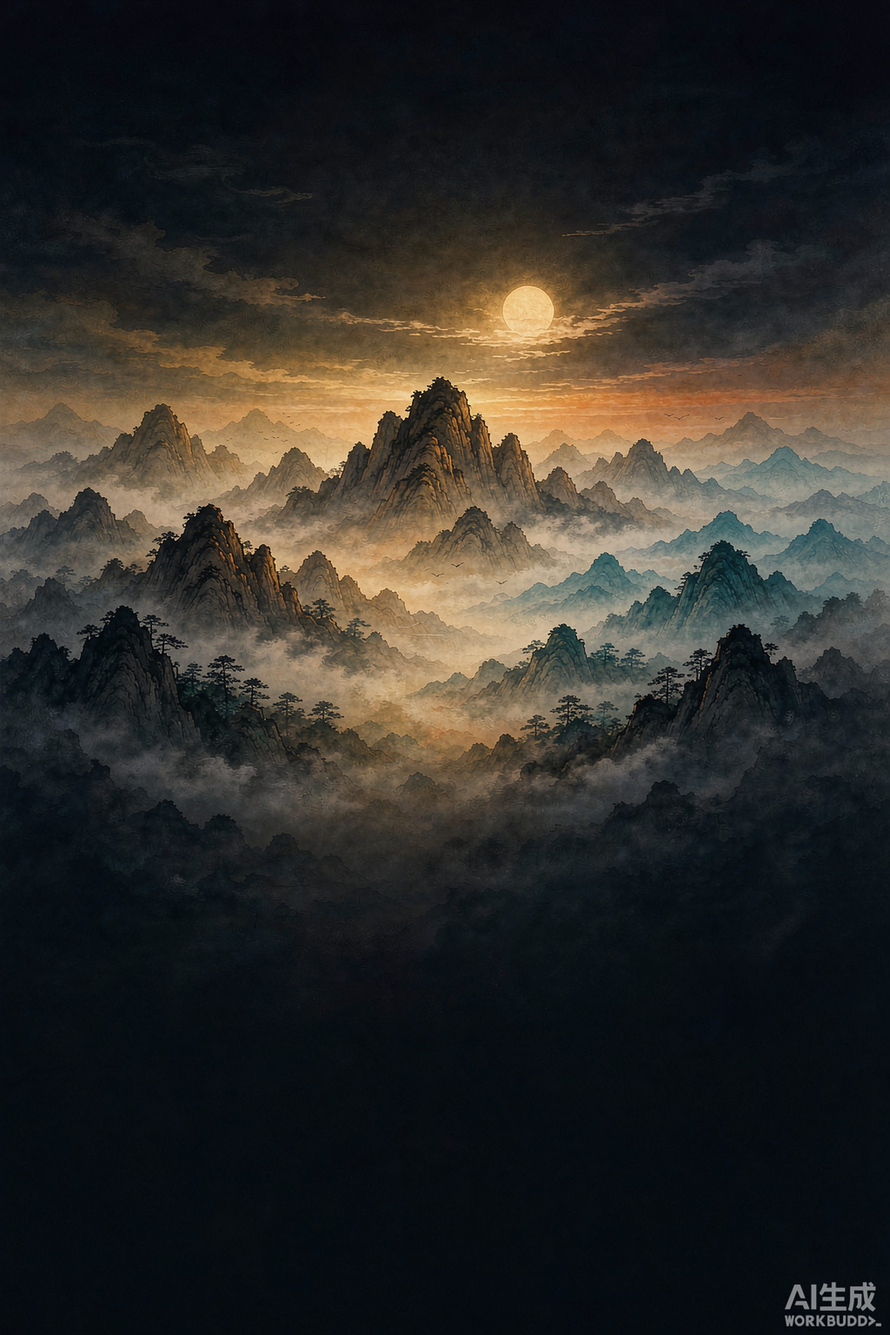
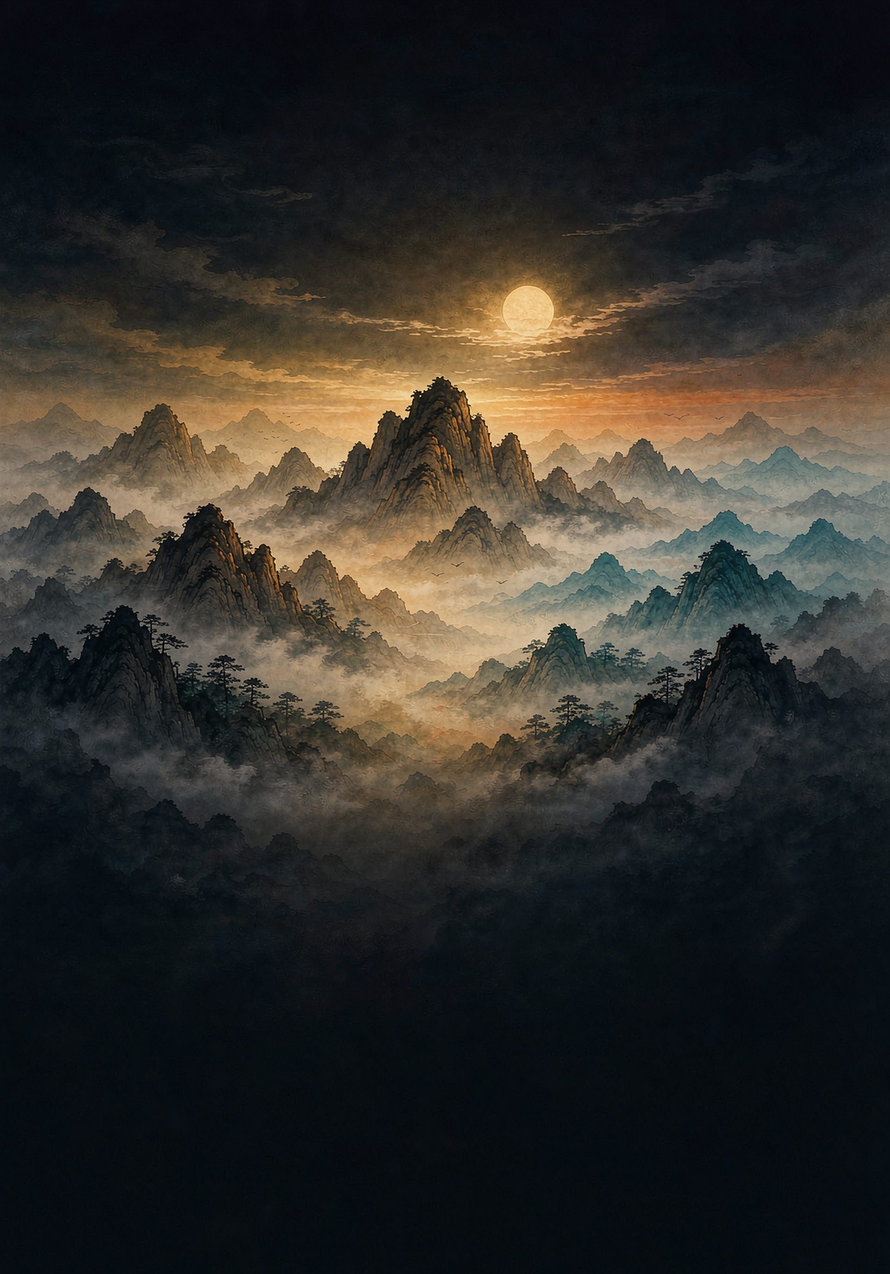
style: 网站背景换回金月水墨山水图（mountain-bg-tall.jpg），同时裁除其右下角AI水印（2880→2750高）；替换浮空悬崖图

Changed region(s): [[0.0, 0.1855, 1.0, 0.68], [0.875, 0.9582, 1.0, 1.0], [0.6875, 0.1545, 0.7188, 0.1855]]

diff --git a/index.html b/index.html
@@ -41,12 +41,12 @@
     min-height: 100vh;
     position: relative;
   }
-  /* 背景图层：浮空悬崖仙境整卷——锚定文档本体（absolute 高度=全页），一张图铺满、随滚动条1:1零延时移动 */
+  /* 背景图层：金月水墨山水整卷——锚定文档本体（absolute 高度=全页），一张图铺满、随滚动条1:1零延时移动 */
   .bg-photo {
     position: absolute; top: 0; left: 0;
     width: 100%; height: 100%;
     z-index: 0; pointer-events: none;
-    background: url(fukong-bg.jpg) center top / 100% 100% no-repeat;
+    background: url(mountain-bg-tall.jpg) center top / 100% 100% no-repeat;
   }
 
     .site-nav {
